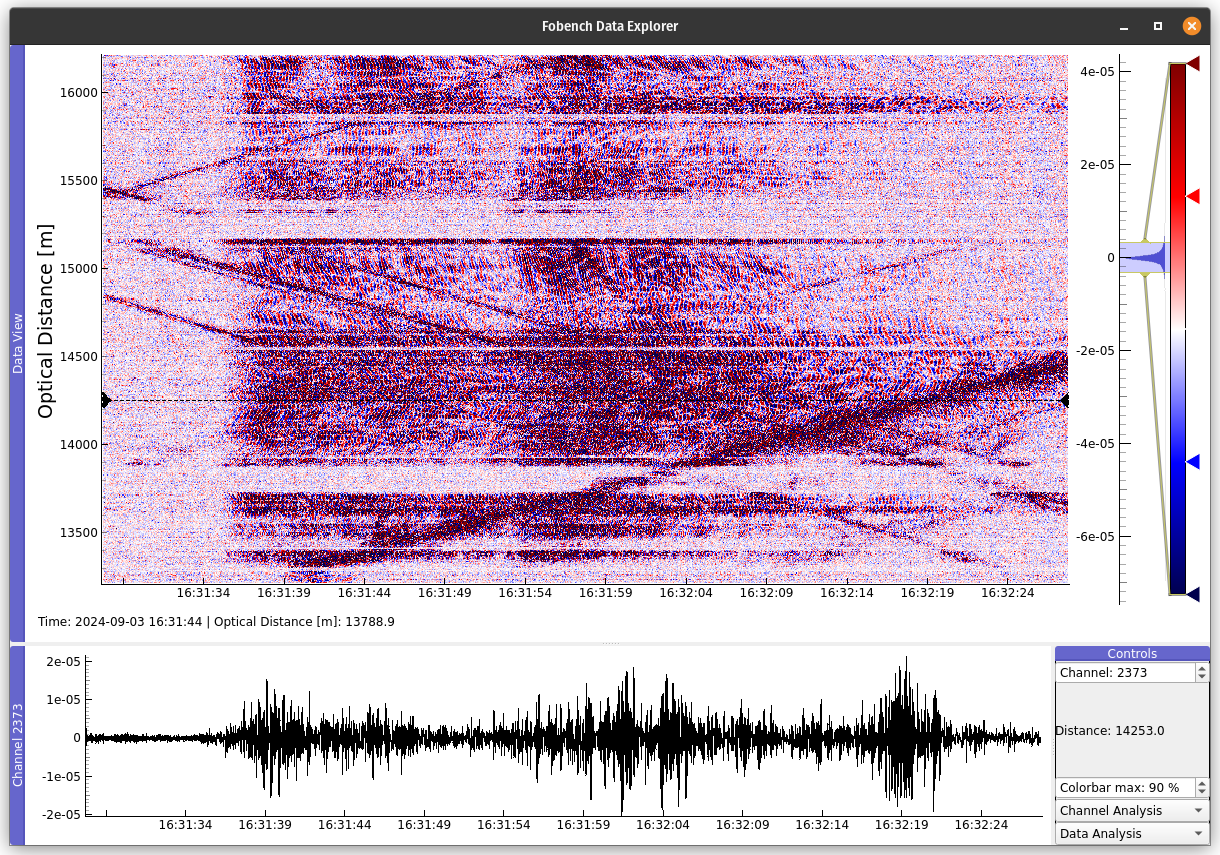
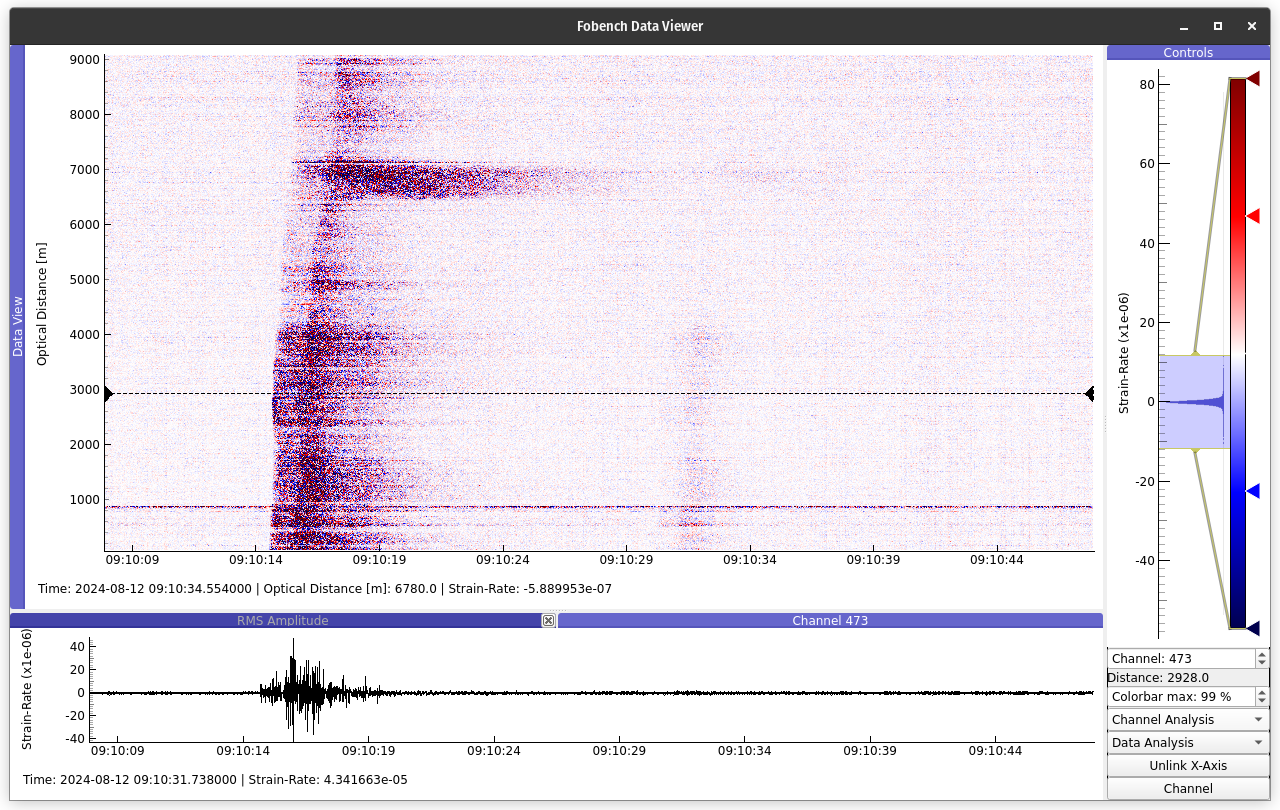
documentation expanded

diff --git a/fobench/plotting/plotting_pyqt.py b/fobench/plotting/plotting_pyqt.py
@@ -442,7 +442,7 @@ def get_layout(size: tuple = (1200, 600), win_title: str = None,
         app = QtWidgets.QApplication(sys.argv)
 
     win = pg.GraphicsLayoutWidget(show=True)
-    win.setWindowTitle(f"Fobench: {win_title}")
+    win.setWindowTitle(f"FoBench: {win_title}")
     win.setWindowIcon(QtGui.QIcon(str(Path(__file__).resolve().parent/"logo.png")))
     win.setBackground("w")
     win.resize(*size)

diff --git a/docs/source/visualizations.rst b/docs/source/visualizations.rst
@@ -1,0 +1,62 @@
+Visualizations
+==============
+FoBench focuses on high-speed visualizations and interactivity to make data exploration more efficient. Therefore, instead of relying on *matplotlib*, FoBench leverages *PyQtGraph* for generating plots. While not offering the same polished look, the difference in speed is significant, especially for larger data matrices. 
+
+Whenever a function or method can generate a plot, the ``plot_mode`` parameter can be set. It defaults to ``"pyqt"`` and *matplotlib* plotting is chosen by setting ``plot_mode = "mpl"``. Not all functions and methods offer a *matplotlib* plot output however, in these cases FoBench falls back to ``"pyqt"``. If ``plot_mode`` is set to anything else than these two keywords, e.g. ``plot_mode = None``, no plot is generated.
+
+All functions are able to return the processing results so that you can design your own plots around them for publications etc.
+
+
+.. figure:: _static/screenshot_plot.png
+   :width: 100%
+   :alt: Data Plot
+   :align: center
+
+   The Data Plot Window
+
+**Navigating** through the plots is done using the mouse buttons and the scrolling wheel. 
+*PyQtGraph* has two modes available to interact with plots:
+
+- **1 button**: Zoom into the plot by scrolling or by drawing a rectangle around the area of interest using the left mouse button. By holding the right mouse button and moving the mouse up-down and left-right you are able to stretch and compress each dimension. 
+
+- **3 button**: Instead of drawing an area of interest with the left mouse button you now pan though the plot when zoomed in.
+
+Switch between both modes by right clicking on the main panel to open the context menu, go to :guilabel:`Mouse Mode` and click :guilabel:`3 button` or :guilabel:`1 button`
+
+Click the :guilabel:`A` in the bottom left to **reset the plot**.
+
+Visuals that contain a matrix plot will have a **colorbar** on the right side. A right click on it lets you choose the colormap. You can edit the limits of the colormap interactively by adjusting the handles of the colorbar, by manually setting a range through the :guilabel:`Set Range`-dialog or by calling the plots with the ``vmin`` and/or ``vmax`` parameters. The colorscale can always be reset to the values it had when the plot was generated using the :guilabel:`Reset colorscale`-button.
+
+At the bottom left of the window you will find the current **position of your cursor in data units**. On the bottom right, the :guilabel:`Channel`/:guilabel:`Distance`-button lets you switch the axis labels between channel numbers and optical distance if the plot has a space dimension. 
+
+.. figure:: _static/screenshot_rmsa.png
+   :width: 100%
+   :alt: RMSA Plot
+   :align: center
+
+   Plot of the RMS Amplitude Profile
+
+To **save a plot as a file to your computer**, right click anywhere in the window, and choose :guilabel:`Export`. In the dialog that opens choose what part of the plot you would like to export and the file format (most likely ``Image File``), adjust the other parameters if necessary and finally :guilabel:`Export`.
+
+
+Data Viewer
+-----------
+The data viewer allows to explore data with some added interactivity. Start the data viewer for every instance of the Fiber class by calling ``Fiber.view()``. Upon openening the window is composed of the main panel holding a time-distance plot, the bottom panel with a channel plot and a control panel on the right side.
+
+.. figure:: _static/explorer_screenshot.png
+   :width: 100%
+   :alt: Viewer
+   :align: center
+
+   The Data Viewer Window
+
+The panels can be **changed in their relative size and can be rearranged** by dragging the blue top bars to the desired location. A double click on the top bar pops the panel out into a seperate window.
+
+The channel plot is controlled by **editing the desired channel number** in the control panel or by **moving the black handle** in the main panel to the channel of interest. The corresponding optical distance is indicated below the channel selector in the control section. The channel and the time-distance plot are linked, i.e. zooming into one also zooms into the other such that the time axis is always aligned. This behaviour can be switched off using the :guilabel:`Unlink X-Axis` button.
+
+In the data viewer the colorbar can additionally be controlled through the :guilabel:`Colorbar max` spinbox. It determines the **maximum percentile** that the colorbar is scaled to.
+From the dropdown menus Channel Analysis and Data Analysis some methods of the ``Fiber`` class can be called directly and their results will be displayed in new tabs. Methods from :guilabel:`Channel Analysis` are always performed on the currently selected channel.
+
+
+
+

diff --git a/docs/source/index.rst b/docs/source/index.rst
@@ -1,8 +1,7 @@
 Welcome to FoBench!
 =====================
 
-FoBench is a toolbox for reading, processing and visualizing Fiber Optic Sensing data, currently Distributed Dynamic Strain Sensing (DDSS; a.k.a DAS) and Distributed Strain Sensing (DSS).
-Follow the :doc:`Installation Guide <getting_started/download_installation>` and :doc:`Processing Quickstart Guide <getting_started/quickstart>` to start processing your data!
+FoBench is a toolbox for reading, processing and visualizing Fiber Optic Sensing data.
 
 .. admonition:: What FoBench offers:
 
@@ -13,6 +12,7 @@ Follow the :doc:`Installation Guide <getting_started/download_installation>` and
    - Built-in parallel processing
    - Workflows inspired by ObsPy and Pyrocko
 
+Follow the :doc:`Installation Guide <getting_started/download_installation>` and :doc:`Processing Quickstart Guide <getting_started/quickstart>` to start processing your own data!
 
     
 .. toctree::
@@ -24,6 +24,7 @@ Follow the :doc:`Installation Guide <getting_started/download_installation>` and
    Supported Data Formats <getting_started/formats>
    Performance <getting_started/performance>
    Processing Quickstart Guide <getting_started/quickstart>
+   Visualizations <visualizations>
    Contribute <getting_started/contribute>
    How to Cite <getting_started/cite>
    
@@ -33,7 +34,7 @@ Follow the :doc:`Installation Guide <getting_started/download_installation>` and
    :caption: Fobench API
    
    Packages and Modules <api/fobench>
-   Data Viewer <viewer>
+
 
 .. autosummary::
    :toctree: api

diff --git a/docs/source/getting_started/download_installation.rst b/docs/source/getting_started/download_installation.rst
@@ -1,7 +1,7 @@
 Download and Installation
 =========================
 
-We will use Conda to create a virtual environment to safely manage the dependencies for Fobench. You can create and activate a minimal environment for Fobench with the following commands:
+We will use Conda to create a virtual environment to safely manage the dependencies for FoBench. You can create and activate a minimal environment for Fobench with the following commands:
 
 .. code-block:: bash
 
@@ -17,14 +17,15 @@ We will use Conda to create a virtual environment to safely manage the dependenc
 
        conda deactivate
 
-Installation via PyPi
-----------------------
 
-To install via PyPi, with your ennvironment activated, simply run:
+..
+   Installation via PyPi
+   ----------------------
 
-.. code-block:: bash
+   To install via PyPi, with your ennvironment activated, simply run:
 
-    pip install fobench
+   .. code-block:: bash
+   	pip install fobench
 
 Installation via Github
 -----------------------
